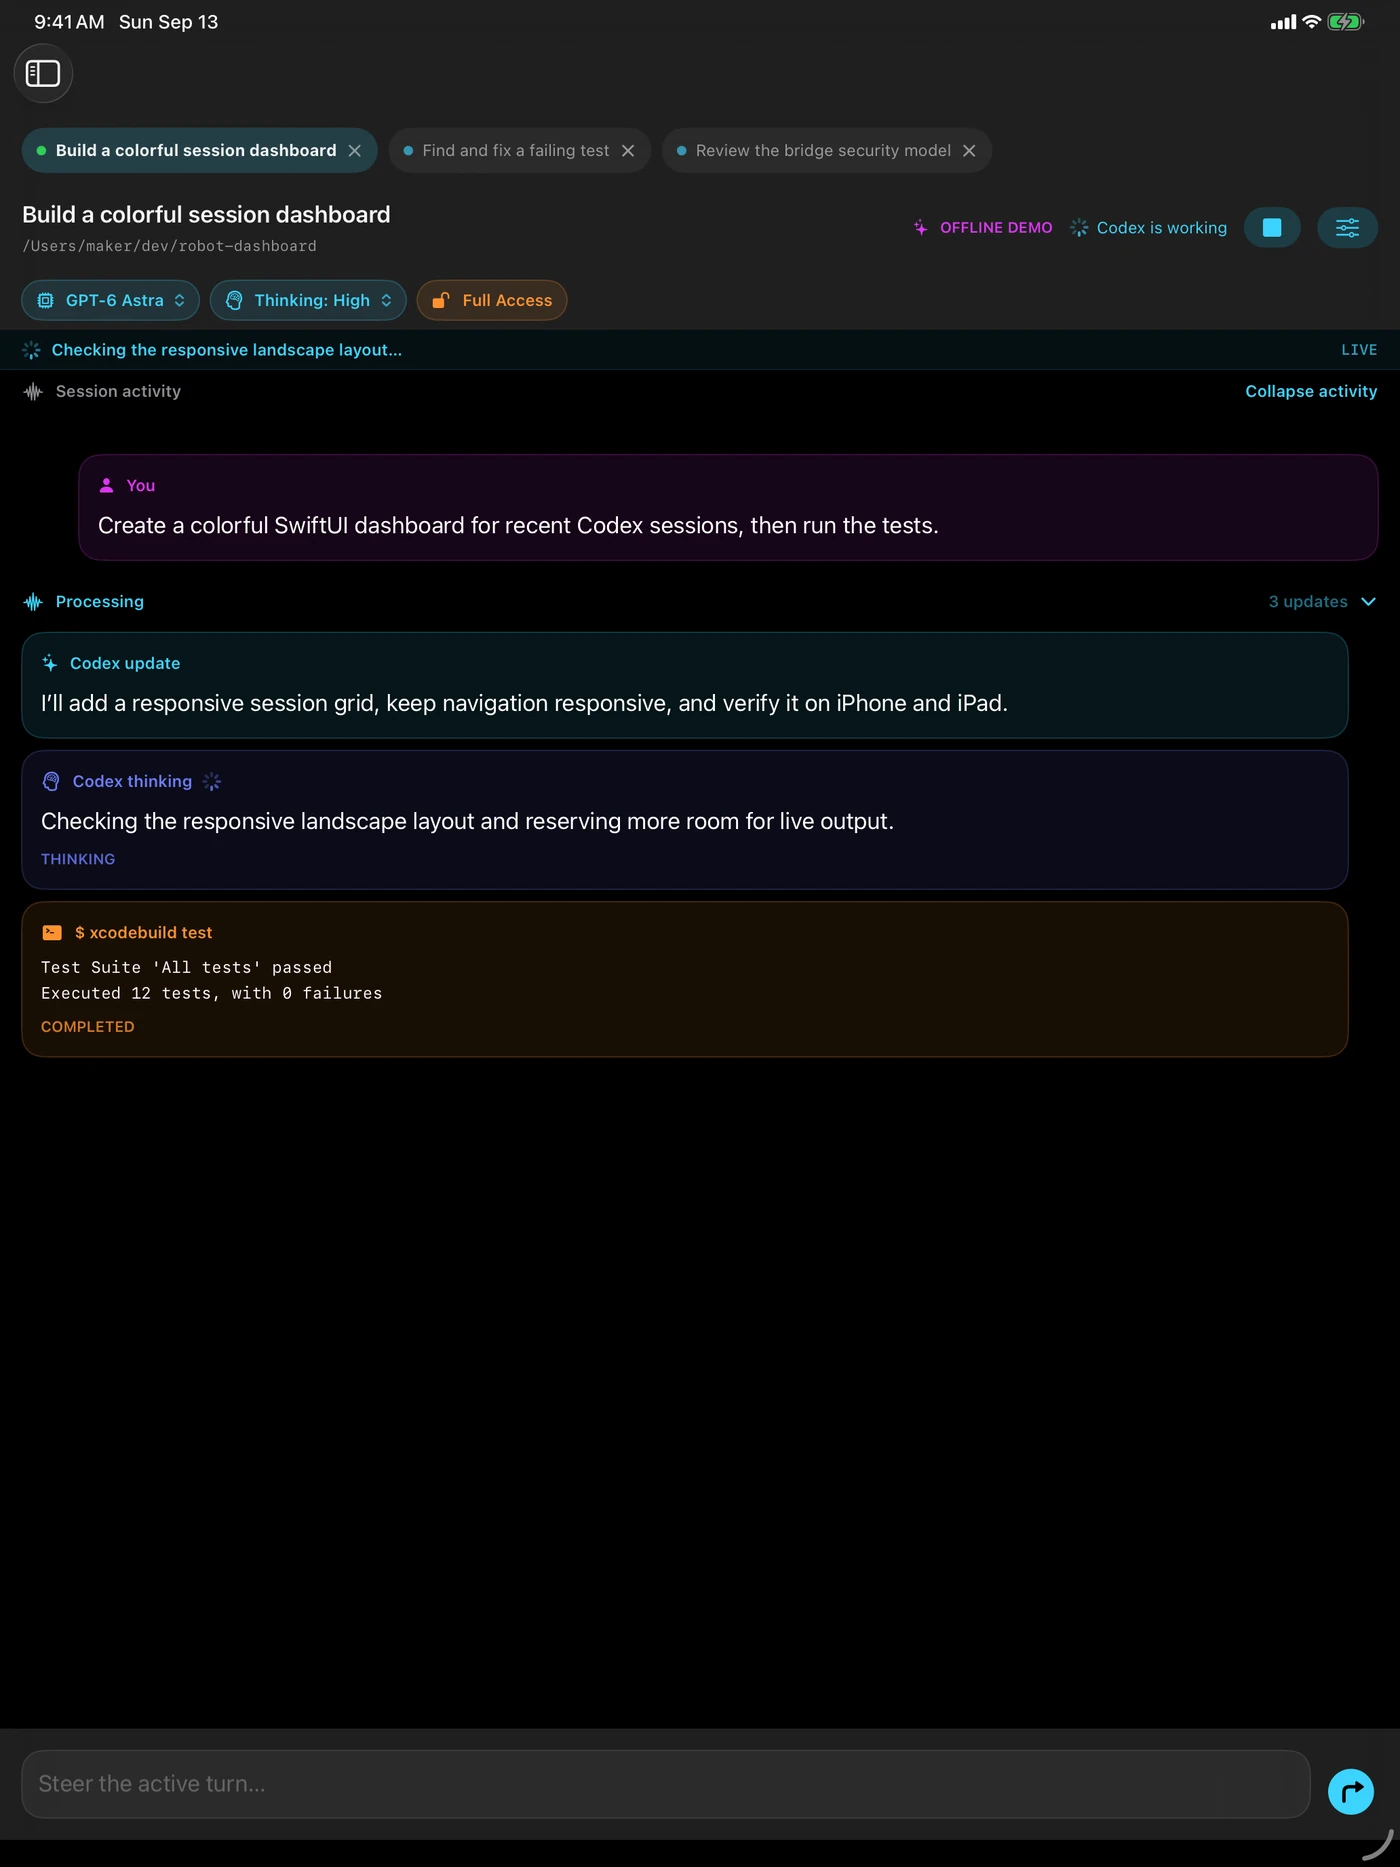
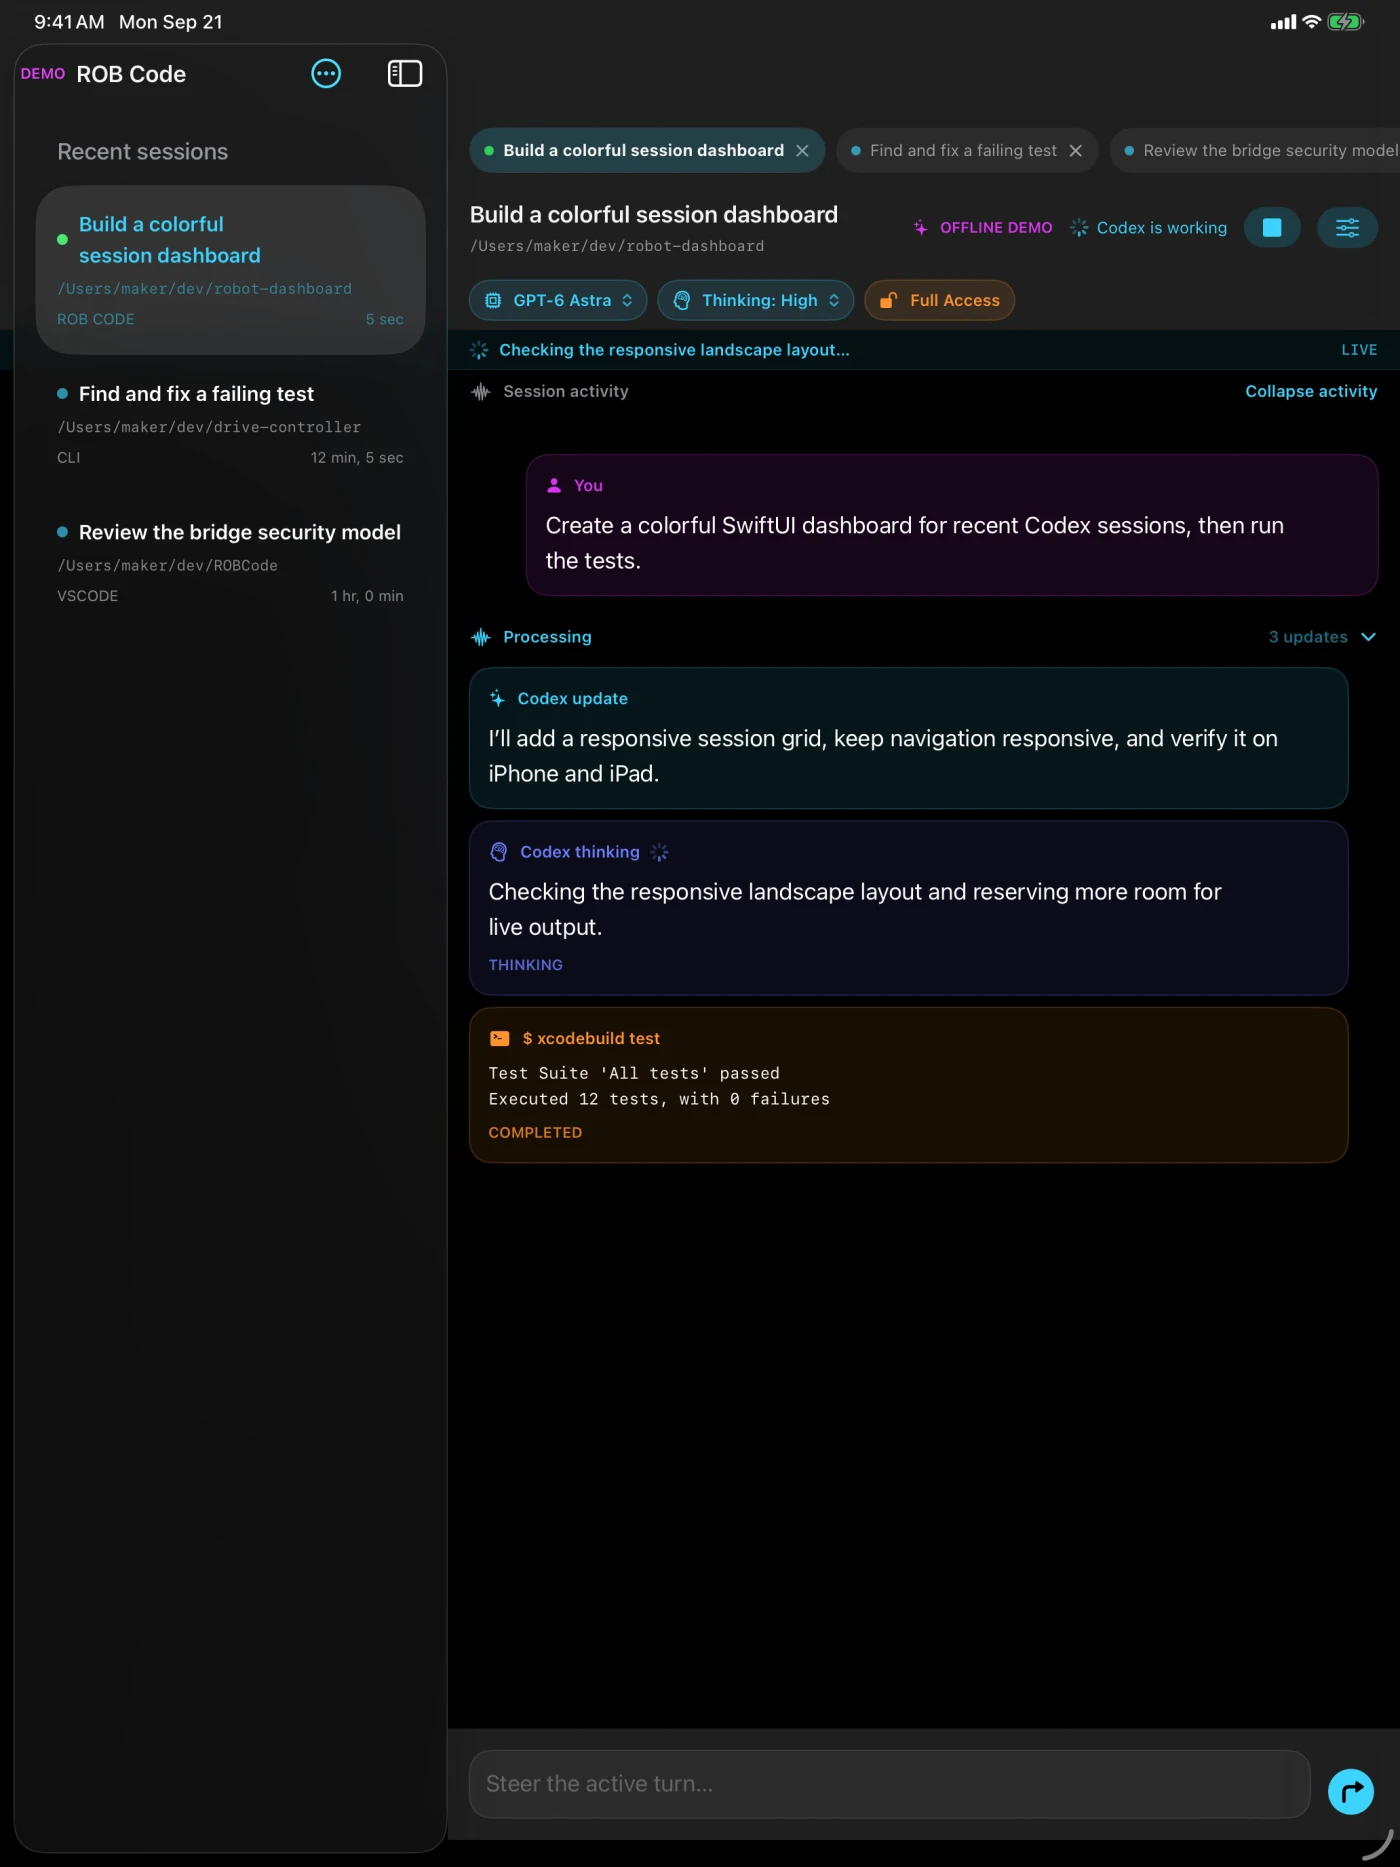
Publish ROB Code build 1015 with renamed companion

diff --git a/content/robcodex.md b/content/robcodex.md
@@ -1,72 +1,74 @@
 ---
-title: "ROBCodex Support"
-description: "Download the Apple-notarized ROBCodex Bridge for Mac and connect ROBCodex on iPhone or iPad."
+title: "ROB Code Support"
+description: "Download the Apple-notarized ROB Code Bridge for Mac and connect ROB Code on iPhone or iPad."
 layout: "single"
 url: "/robcodex/"
 draft: false
 ---
 
-**Secure local coding sessions.** ROBCodex turns the Mac bridge into a focused Codex workspace and securely carries the same sessions to an iPhone or iPad on your local Wi-Fi network. It is independent of ROBController and Cerebro.
+**Secure local coding sessions.** ROB Code turns the Mac bridge into a focused Codex workspace and securely carries the same sessions to an iPhone or iPad on your local Wi-Fi network. ROB Code is made by Orbitus Robotics and works with a separately installed Codex CLI. It is independent of ROBController and Cerebro.
 
 The iPhone and iPad app is awaiting App Store approval. Its App Store distribution excludes China mainland.
+
+The app and Mac companion now use the ROB Code name. Existing sessions and paired-device identities are preserved.
 
 ## Replace terminal-tab sprawl
 
 Keep several Codex conversations open in one horizontal session bar instead of spreading work across separate Terminal windows. Each tab has its own saved conversation, prompt draft, live stream, paging state, model, thinking effort, and Stop control, so sessions can work simultaneously without blocking or overwriting one another.
 
-- **Work natively on the Mac.** ROBCodex Bridge now includes a terminal-style session workspace with searchable history, live command output, approvals, prompts, and per-session controls.
+- **Work natively on the Mac.** ROB Code Bridge now includes a terminal-style session workspace with searchable history, live command output, approvals, prompts, and per-session controls.
 - **Continue from iPhone or iPad.** Open the same saved sessions, read their history, send or steer prompts, and stop an individual turn from a paired device. New sessions appear automatically while connected—no Refresh button required.
 - **Expand the activity behind each answer.** Processing groups are open by default and show commentary, thinking summaries, plans, tool inputs and results, progress messages, and command output. Collapse or reopen activity while keeping the final response visible. Existing conversations load the detailed history available from Codex. When a step has no readable thinking summary, its card explains that no summary text is available.
 - **Follow work as it happens.** Live updates remain visible during a turn. Expand long output while it streams, scroll back through earlier activity, and return with Follow live.
 - **Open history without the long wait.** Recent messages and full tool results load in small pages, including within a long turn. Earlier messages stay available on demand, and stalled requests offer a retry.
 - **Make landscape count.** On iPhone, the session takes the full landscape width with a compact translucent title bar and composer, leaving more room for output without hiding the conversation title.
-- **Choose current and future models.** A labeled menu loads the signed-in Mac account's live Codex catalog, including GPT-6 Astra when available, so new models do not require a ROBCodex update.
+- **Choose current and future models.** A labeled menu loads the signed-in Mac account's live Codex catalog, including GPT-6 Astra when available, so new models do not require a ROB Code update.
 - **Control thinking depth.** A neighboring menu exposes every level the selected model supports—including Max or Ultra when available—for both new and existing sessions on Mac, iPhone, and iPad.
 - **Read session settings clearly.** The Mac settings sheet keeps Model and Effort labels fully visible, with wrapped descriptions and grouped controls.
 - **Recover cleanly.** Open tabs and their selected session survive relaunches, while bridge readiness and turn events keep every connected screen in sync.
 - **Keep Codex local.** Your Codex login stays on the Mac; the bridge exposes only a small allowlist over an encrypted, paired local connection.
-- **Allow Full Access.** ROBCodex sessions run without approval pauses so they remain usable remotely. Pair only devices you trust: a paired device can direct Codex to run commands and change files with your Mac user account's access.
+- **Allow Full Access.** ROB Code sessions run without approval pauses so they remain usable remotely. Pair only devices you trust: a paired device can direct Codex to run commands and change files with your Mac user account's access.
 
 ## See the multi-session workspace
 
 <figure class="not-prose my-8 overflow-hidden rounded-2xl border border-slate-700 bg-slate-950 p-3 shadow-2xl">
-  <img src="/images/robcodex/robcodex-iphone-landscape.webp" width="1434" height="660" loading="lazy" alt="ROBCodex filling an iPhone landscape screen with GPT-6 Astra and thinking-depth menus, expanded Processing groups, live progress, and a compact translucent composer" class="mx-auto h-auto w-full rounded-xl">
+  <img src="/images/robcodex/robcodex-iphone-landscape.webp" width="1434" height="660" loading="lazy" alt="ROB Code filling an iPhone landscape screen with GPT-6 Astra and thinking-depth menus, expanded Processing groups, live progress, and a compact translucent composer" class="mx-auto h-auto w-full rounded-xl">
   <figcaption class="px-2 pb-1 pt-3 text-sm text-slate-300">The full-width iPhone landscape workspace keeps the GPT-6 Astra and thinking-depth choices beside the title while leaving more room for live output.</figcaption>
 </figure>
 
 <div class="not-prose my-8 grid grid-cols-1 gap-6 md:grid-cols-2">
   <figure class="overflow-hidden rounded-2xl border border-slate-700 bg-slate-950 p-3 shadow-2xl">
-    <img src="/images/robcodex/robcodex-iphone-sessions.webp" width="736" height="1599" loading="lazy" alt="ROBCodex on iPhone showing GPT-6 Astra, Thinking High, expanded Processing groups, commentary, thinking summaries, and command output" class="mx-auto h-auto w-full rounded-xl">
+    <img src="/images/robcodex/robcodex-iphone-sessions.webp" width="736" height="1600" loading="lazy" alt="ROB Code on iPhone showing GPT-6 Astra, Thinking High, expanded Processing groups, commentary, thinking summaries, and command output" class="mx-auto h-auto w-full rounded-xl">
     <figcaption class="px-2 pb-1 pt-3 text-sm text-slate-300">Processing groups open by default, with one-tap controls to collapse or expand session activity.</figcaption>
   </figure>
   <figure class="overflow-hidden rounded-2xl border border-slate-700 bg-slate-950 p-3 shadow-2xl">
-    <img src="/images/robcodex/robcodex-ipad-sessions.webp" width="1400" height="1867" loading="lazy" alt="ROBCodex on iPad showing simultaneous sessions, GPT-6 Astra and thinking-depth controls, expanded Processing groups, live progress, and command output" class="mx-auto h-auto w-full rounded-xl">
+    <img src="/images/robcodex/robcodex-ipad-sessions.webp" width="1400" height="1867" loading="lazy" alt="ROB Code on iPad showing simultaneous sessions, GPT-6 Astra and thinking-depth controls, expanded Processing groups, live progress, and command output" class="mx-auto h-auto w-full rounded-xl">
     <figcaption class="px-2 pb-1 pt-3 text-sm text-slate-300">iPad keeps simultaneous sessions and expanded processing history together, with the final response separate and easy to find.</figcaption>
   </figure>
 </div>
 
-## Download ROBCodex Bridge for Mac
+## Download ROB Code Bridge for Mac
 
-<p><a href="/downloads/robcodex/ROBCodexBridge-macOS-universal-0.1.0.zip" download class="inline-block px-5 py-3 font-bold text-white no-underline bg-indigo-600 rounded-lg hover:bg-indigo-800 focus:ring-4 focus:outline-none focus:ring-indigo-300">Download ROBCodex Bridge 0.1.0</a></p>
+<p><a href="/downloads/robcodex/ROBCodeBridge-macOS-universal-0.1.0.zip" download class="inline-block px-5 py-3 font-bold text-white no-underline bg-indigo-600 rounded-lg hover:bg-indigo-800 focus:ring-4 focus:outline-none focus:ring-indigo-300">Download ROB Code Bridge 0.1.0</a></p>
 
 The download is a universal application for Apple silicon and Intel Macs running macOS 14 or later. It is signed with the Orbitus Robotics Developer ID, uses Apple's hardened runtime, and is notarized by Apple.
 
-- Version: `0.1.0` (build 1014)
-- Size: 4,602,106 bytes
[1 lines of base64/hex data omitted]
+- Version: `0.1.0` (build 1015)
+- Size: 4,602,152 bytes
[1 lines of base64/hex data omitted]
 
 ## Connect your devices
 
-1. Download and unzip **ROBCodex Bridge** on your Mac.
-2. Move **ROBCodex Bridge.app** to your Applications folder and open it.
+1. Download and unzip **ROB Code Bridge** on your Mac.
+2. Move **ROB Code Bridge.app** to your Applications folder and open it.
 3. Make sure the Codex CLI is installed and signed in on the Mac.
-4. Open ROBCodex on the iPhone or iPad while both devices are on the same Wi-Fi network.
+4. Open ROB Code on the iPhone or iPad while both devices are on the same Wi-Fi network.
 5. Select the Mac, compare the six-digit code on both screens, request pairing on iOS, and approve it on the Mac.
 
 No API key, SSH key, or Codex password is copied to the iPhone or iPad. Codex authentication remains on the Mac.
 
-ROBCodex deliberately keeps session permissions at **Allow Full Access**. It does not pause a remote session for command or file-change approvals, so only pair an iPhone or iPad you trust.
+ROB Code deliberately keeps session permissions at **Allow Full Access**. It does not pause a remote session for command or file-change approvals, so only pair an iPhone or iPad you trust.
 
 ## Help and privacy
 
-For installation or connection help, use the [Orbitus Robotics contact form](/contact/). Learn how local session data and pairing information are handled in the [ROBCodex privacy policy](/privacy/robcodex/).
+For installation or connection help, use the [Orbitus Robotics contact form](/contact/). Learn how local session data and pairing information are handled in the [ROB Code privacy policy](/privacy/robcodex/).

diff --git a/content/robcodex-privacy.md b/content/robcodex-privacy.md
@@ -1,36 +1,36 @@
 ---
-title: "ROBCodex Privacy"
-description: "Privacy policy for the ROBCodex iPhone, iPad, and Mac apps."
+title: "ROB Code Privacy"
+description: "Privacy policy for the ROB Code iPhone, iPad, and Mac apps."
 layout: "single"
 url: "/privacy/robcodex/"
 draft: false
 ---
 
-Last updated: August 31, 2026
+Last updated: September 21, 2026
 
-ROBCodex does not collect, track, sell, or share personal data. It contains no advertising, third-party analytics, crash-reporting, or telemetry SDKs, and the iPhone and iPad app does not require an Orbitus Robotics account.
+ROB Code does not collect, track, sell, or share personal data. It contains no advertising, third-party analytics, crash-reporting, or telemetry SDKs, and the iPhone and iPad app does not require an Orbitus Robotics account.
 
 ## Local-network communication
 
-ROBCodex uses Apple's local-network and Bonjour technologies to discover a Mac running ROBCodex Bridge. Discovery begins only after you grant Apple's Local Network permission.
+ROB Code uses Apple's local-network and Bonjour technologies to discover a Mac running ROB Code Bridge. Discovery begins only after you grant Apple's Local Network permission.
 
-After you compare a six-digit code and approve pairing, session metadata, conversation content, streamed Codex output, prompts, and command or file-change approval decisions travel directly between the paired devices through an encrypted local-network connection. ROBCodex has no cloud relay, and Orbitus Robotics does not receive or store this content.
+After you compare a six-digit code and approve pairing, session metadata, conversation content, streamed Codex output, prompts, and command or file-change approval decisions travel directly between the paired devices through an encrypted local-network connection. ROB Code has no cloud relay, and Orbitus Robotics does not receive or store this content.
 
 ## Credentials and authentication
 
 Your Codex credentials and authentication state remain in the Codex installation on your Mac. The iPhone and iPad app does not receive or store a Codex API token, password, or account credential.
 
-ROBCodex creates a device identity for secure pairing. Device identities and pinned peer records are stored in Apple Keychain using device-only accessibility and are not synchronized to Orbitus Robotics.
+ROB Code creates a device identity for secure pairing. Device identities and pinned peer records are stored in Apple Keychain using device-only accessibility and are not synchronized to Orbitus Robotics.
 
 ## Codex services
 
-The Codex installation on your Mac may communicate with OpenAI according to your Codex account, configuration, and OpenAI's policies. That communication is performed by Codex and is separate from ROBCodex's local bridge. ROBCodex does not add an Orbitus Robotics server between Codex and your devices.
+The Codex installation on your Mac may communicate with OpenAI according to your Codex account, configuration, and OpenAI's policies. That communication is performed by Codex and is separate from ROB Code's local bridge. ROB Code does not add an Orbitus Robotics server between Codex and your devices.
 
 ## Offline demo and data deletion
 
 The optional offline demo contains fixed sample data, does not connect to a Mac, and performs no networking.
 
-You can remove a paired device from ROBCodex or ROBCodex Bridge at any time. Deleting the apps removes their locally stored data according to Apple's platform behavior. Because Orbitus Robotics does not collect ROBCodex session data, there is no Orbitus Robotics cloud account or session-data record to delete.
+You can remove a paired device from ROB Code or ROB Code Bridge at any time. Deleting the apps removes their locally stored data according to Apple's platform behavior. Because Orbitus Robotics does not collect ROB Code session data, there is no Orbitus Robotics cloud account or session-data record to delete.
 
 ## Contact
 

diff --git a/content/privacy.md b/content/privacy.md
@@ -1,6 +1,6 @@
 ---
 title: "Privacy"
-description: "Privacy practices for Orbitus Robotics apps, including Musimotion Pro, CodeAtlas, ROBCodex, LingonXRob Plist Editor, ROB Training, and ROB Training Vision."
+description: "Privacy practices for Orbitus Robotics apps, including Musimotion Pro, CodeAtlas, ROB Code, LingonXRob Plist Editor, ROB Training, and ROB Training Vision."
 layout: "single"
 url: "/privacy/"
 ---
@@ -47,11 +47,11 @@ When you invoke the CodeAtlas Xcode Source Editor command, the extension reads t
 
 You can remove locally stored preferences and shared extension data by deleting the app and its local containers.
 
-## ROBCodex
+## ROB Code
 
-ROBCodex does not collect, track, sell, or share personal data. Live session content moves directly between the paired iPhone or iPad and Mac over an encrypted local-network connection; Orbitus Robotics does not receive or store it. Codex credentials remain on the Mac.
+ROB Code does not collect, track, sell, or share personal data. Live session content moves directly between the paired iPhone or iPad and Mac over an encrypted local-network connection; Orbitus Robotics does not receive or store it. Codex credentials remain on the Mac.
 
-[Read the complete ROBCodex privacy policy](/privacy/robcodex/), including local-network, Keychain, retention, and deletion details.
+[Read the complete ROB Code privacy policy](/privacy/robcodex/), including local-network, Keychain, retention, and deletion details.
 
 ## LingonXRob Plist Editor
 
